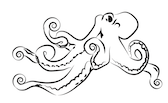
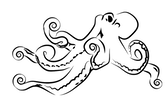
blog - fix octopus experiment and clean imgs

diff --git a/db/seeds/blog/08_genetic_octopus.rb b/db/seeds/blog/08_genetic_octopus.rb
@@ -8,7 +8,7 @@
     Je dois avouer que si une fille pouvait ressembler à ça, je la demande en mariage instantanément.
   },
   :snippet => Blog::Snippet.create(:params => %q{
-      @searched_image = ChunkyPNG::Image.from_file("app/assets/images/blog/experience/octopus_transparent.png")
+      @searched_image = ChunkyPNG::Image.from_file("app/assets/images/blog/experience/octopus.png")
 
       @generations = 1_500
       @mutation_rate = 1.0 / 1
@@ -106,20 +106,21 @@
 
 
     	def asset_data_uri path
-    		asset = Rails.application.assets.find_asset path
+    	  asset = Rails.application.assets.instance_variable_get('@environment').find_asset "blog/experience/octopus_new.png"
         
-    	  throw "Could not find asset '#{path}'" if asset.nil?
+        throw "Could not find asset '#{path}'" if asset.nil?
         
-    	  base64 = Base64.encode64(asset.to_s).gsub(/\s+/, "")
-    	  "data:#{asset.content_type};base64,#{Rack::Utils.escape(base64)}"
+        base64 = Base64.encode64(asset.to_s).gsub(/\s+/, "")
+        "data:#{asset.content_type};base64,#{Rack::Utils.escape(base64)}"
     	end
       
     	def genes_to_uri genes
     		png = ChunkyPNG::Image.new(@searched_image.width, @searched_image.height, genes)
     		png.save("app/assets/images/blog/experience/genetic_best.png")
-    		uri = asset_data_uri("blog/experience/genetic_best.png")
     		
+    		uri = asset_data_uri("blog/experience/genetic_best.png")
     		File.delete("app/assets/images/blog/experience/genetic_best.png")
+    		
     		uri
     	end
     },
